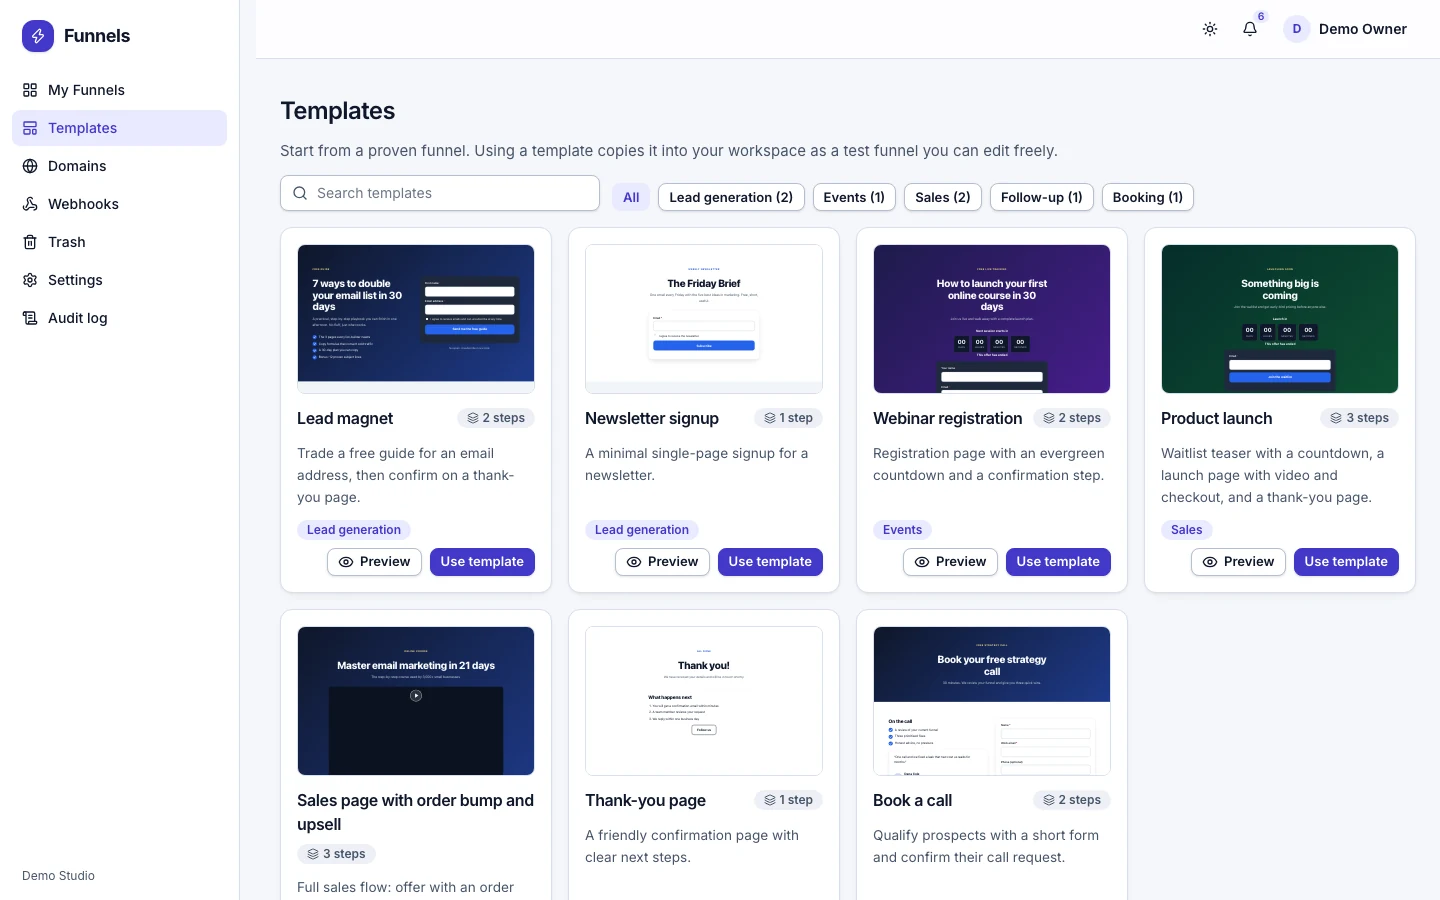
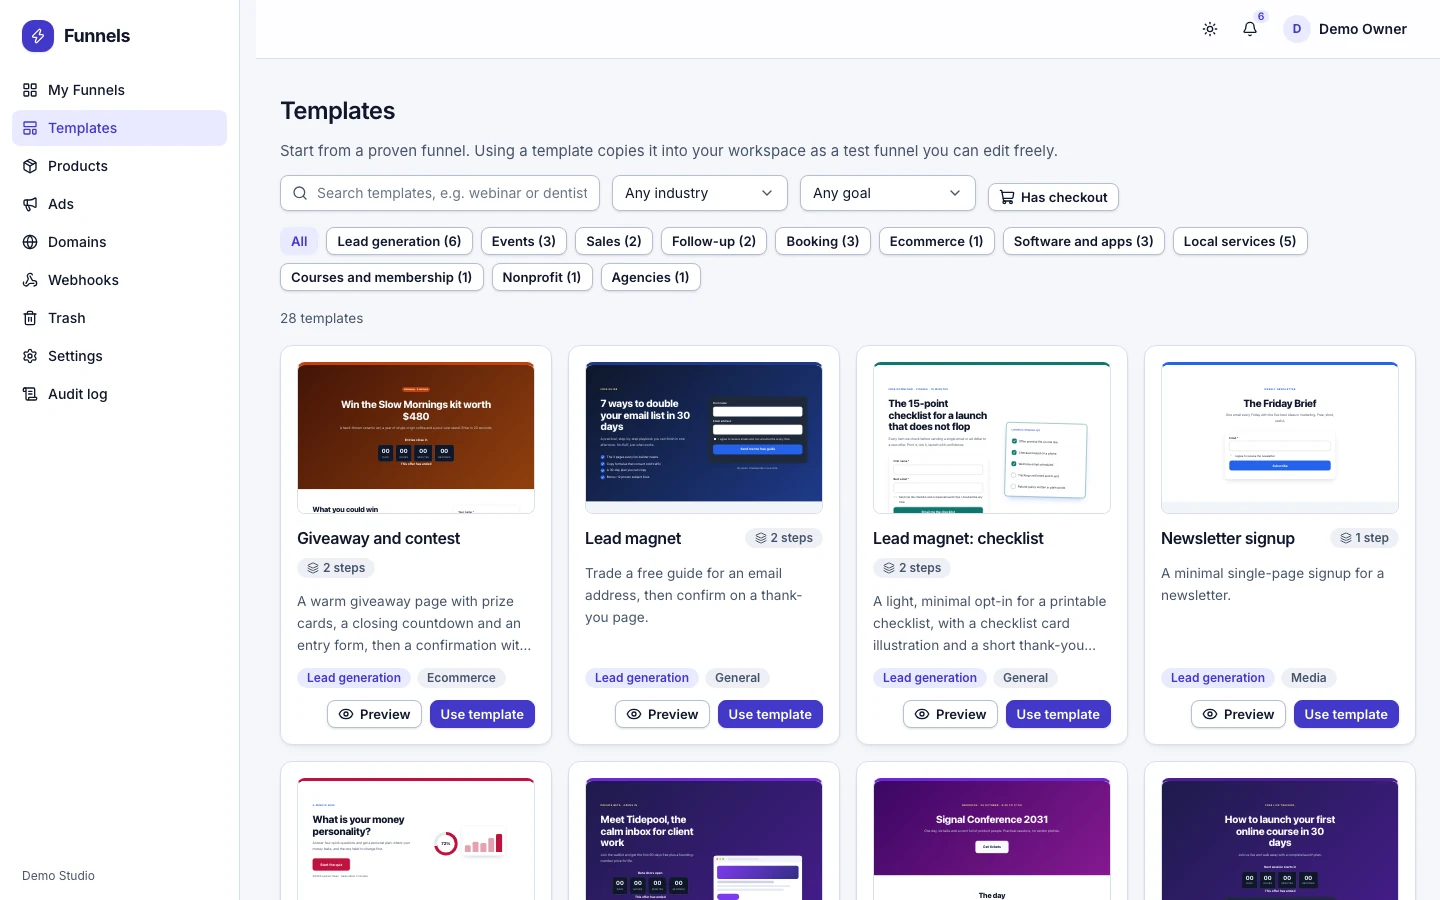
test(e2e): commerce suite (templates, products, add-payments wizard, product analytics) and a fake-Stripe suite for connect and a test-mode purchase; design screenshots

diff --git a/e2e/tests/commerce.spec.ts b/e2e/tests/commerce.spec.ts
@@ -1,0 +1,100 @@
+import { expect, test } from '@playwright/test';
+import { register } from './helpers.js';
+
+// Templates, product catalog, the add-payments wizard and product analytics, through the real UI (the mock payment provider, as in development).
+
+const api = (page: import('@playwright/test').Page, method: string, path: string, body?: unknown) =>
+  page.evaluate(async ([m, p, b]) => {
+    const h: Record<string, string> = { 'content-type': 'application/json', authorization: `Bearer ${localStorage.getItem('funnels.token')}` };
+    const r = await fetch(p as string, { method: m as string, headers: h, body: b === undefined ? undefined : JSON.stringify(b) });
+    return { status: r.status, json: await r.json().catch(() => null) };
+  }, [method, path, body] as const);
+
+test('templates: search and filter the library, preview on a device, use a checkout template and bind its products', async ({ page }) => {
+  await register(page);
+  await page.goto('/templates');
+  await expect(page.getByRole('status').filter({ hasText: /templates?$/ })).toContainText(/28 templates/);
+  await page.getByLabel('Search templates').fill('dentist');
+  await expect(page.getByRole('article')).toHaveCount(1);
+  await page.getByRole('button', { name: /^Preview/ }).click();
+  const dlg = page.getByRole('dialog');
+  await expect(dlg.locator('iframe')).toBeVisible();
+  await dlg.getByRole('button', { name: 'mobile' }).click();
+  await expect(dlg.locator('iframe')).toHaveCSS('width', '390px');
+  await dlg.getByRole('button', { name: 'Close' }).first().click();
+  await page.getByLabel('Search templates').fill('');
+  await page.getByRole('button', { name: 'Has checkout' }).click();
+  await expect(page.getByRole('article').first()).toBeVisible();
+  await page.getByLabel('Search templates').fill('bump');
+  await page.getByRole('button', { name: 'Use template Sales page with order bump and upsell' }).click();
+  const wiz = page.getByRole('dialog', { name: /Use "Sales page/ });
+  await expect(wiz.getByText('Products this funnel sells')).toBeVisible();
+  await wiz.getByLabel('Funnel name').fill('Masterclass funnel');
+  await wiz.getByRole('button', { name: 'Create funnel' }).click();
+  await expect(page.getByRole('heading', { name: 'Masterclass funnel', level: 1 })).toBeVisible();
+  await page.goto('/products');
+  await expect(page.getByRole('table', { name: 'Product catalog' }).getByRole('row')).toHaveCount(4); // header + three products created from the template slots
+});
+
+test('products: create, change the price (immutable: replaced), archive and restore', async ({ page }) => {
+  await register(page);
+  await page.goto('/products');
+  await page.getByRole('button', { name: 'New product' }).first().click();
+  const drawer = page.getByRole('dialog', { name: 'New product' });
+  await drawer.getByLabel('Name', { exact: true }).fill('Starter kit');
+  await drawer.getByLabel('Price').fill('49.50');
+  await drawer.getByRole('button', { name: 'Create product' }).click();
+  const table = page.getByRole('table', { name: 'Product catalog' });
+  await expect(table.getByRole('row', { name: /Starter kit/ })).toContainText('$49.50');
+  await expect(table.getByRole('row', { name: /Starter kit/ })).toContainText('Not connected');
+  await table.getByRole('button', { name: 'Open Starter kit' }).click();
+  const edit = page.getByRole('dialog', { name: 'Starter kit' });
+  await edit.getByRole('button', { name: /^Change the price/ }).click();
+  await edit.getByLabel('Price').last().fill('59');
+  await edit.getByRole('button', { name: 'Save new price' }).click();
+  await expect(edit.getByText('Replaced')).toBeVisible();
+  await expect(edit.getByText('$59.00', { exact: false }).first()).toBeVisible();
+  await edit.getByRole('button', { name: 'Archive product' }).click();
+  await page.getByRole('dialog', { name: 'Archive this product?' }).getByRole('button', { name: 'Archive' }).click();
+  await expect(edit.getByText(/This product is archived/)).toBeVisible();
+  await edit.getByRole('button', { name: 'Restore' }).click();
+  await expect(edit.getByRole('button', { name: 'Archive product' })).toBeVisible();
+});
+
+test('payments wizard builds the checkout steps; a purchase shows up in product analytics and can be summarised', async ({ page }) => {
+  await register(page);
+  const f = (await api(page, 'POST', '/api/funnels', { name: 'Shop funnel' })).json as { id: string };
+  await page.goto(`/funnels/${f.id}/steps`);
+  await page.getByRole('button', { name: 'Add payments' }).click();
+  const wiz = page.getByRole('dialog', { name: 'Add payments to this funnel' });
+  await wiz.getByLabel('Name').fill('Poster');
+  await wiz.getByLabel('Price', { exact: true }).fill('25');
+  await wiz.getByRole('button', { name: 'Next' }).click();
+  await wiz.getByRole('button', { name: 'Next' }).click(); // layout: one step
+  await wiz.getByLabel(/Offer an order bump/).check();
+  await wiz.getByLabel('Name').fill('Frame');
+  await wiz.getByLabel('Price', { exact: true }).fill('9');
+  await wiz.getByRole('button', { name: 'Next' }).click();
+  await wiz.getByRole('button', { name: 'Next' }).click(); // no upsell
+  await wiz.getByRole('button', { name: 'Add payments' }).click();
+  const steps = page.getByRole('list', { name: 'Funnel steps' });
+  await expect(steps.getByRole('listitem')).toHaveCount(3); // landing, checkout, thank you
+  await expect(steps).toContainText('Checkout');
+
+  const stepsApi = (await api(page, 'GET', `/api/funnels/${f.id}/steps`)).json as { data: { id: string; name: string }[] };
+  const co = stepsApi.data.find((s) => s.name === 'Checkout')!;
+  const doc = ((await api(page, 'GET', `/api/funnels/${f.id}/steps/${co.id}/page`)).json as { doc: { products: { id: string; orderBump?: boolean }[] } }).doc;
+  const main = doc.products.find((p) => !p.orderBump)!;
+  const buy = await page.evaluate(async ([fid, sid, bid]) => (await fetch(`/api/public/checkout/${fid}/${sid}/${bid}`, { method: 'POST', headers: { 'content-type': 'application/json' }, body: JSON.stringify({ email: 'e2e-buyer@example.com' }) })).status, [f.id, co.id, main.id] as const);
+  expect(buy).toBe(200);
+
+  await page.goto(`/funnels/${f.id}/products`);
+  await expect(page.getByRole('table', { name: /Performance per product/ })).toContainText('Poster');
+  await expect(page.getByRole('table', { name: /Performance per product/ }).getByRole('img', { name: /Net revenue of Poster/ })).toBeVisible();
+  await page.getByRole('button', { name: 'Open details of Poster in USD' }).click();
+  await expect(page.getByRole('dialog', { name: /Poster/ })).toContainText('Net revenue');
+  await page.getByRole('dialog', { name: /Poster/ }).getByRole('button', { name: 'Close dialog' }).click();
+  await page.getByRole('button', { name: 'Summarise this period' }).first().click();
+  await expect(page.getByTestId('summary-narrative')).toContainText('1 order');
+  await expect(page.getByText('Priority 1')).toBeVisible();
+});

diff --git a/e2e/tests-stripe/stripe.spec.ts b/e2e/tests-stripe/stripe.spec.ts
@@ -1,0 +1,59 @@
+import { expect, test } from '@playwright/test';
+import { addVerifiedDomain, register } from '../tests/helpers.js';
+
+const PORT = Number(process.env.E2E_STRIPE_PORT ?? 4280);
+
+const api = (page: import('@playwright/test').Page, method: string, path: string, body?: unknown) =>
+  page.evaluate(async ([m, p, b]) => {
+    const h: Record<string, string> = { 'content-type': 'application/json', authorization: `Bearer ${localStorage.getItem('funnels.token')}` };
+    const r = await fetch(p as string, { method: m as string, headers: h, body: b === undefined ? undefined : JSON.stringify(b) });
+    return { status: r.status, json: await r.json().catch(() => null) };
+  }, [method, path, body] as const);
+
+test('connect Stripe from Settings, build a checkout with the wizard, and buy with a test card on the hosted page (fake Stripe)', async ({ page }) => {
+  await register(page);
+
+  // Settings > Payments: test mode banner, not connected, then the onboarding round trip
+  await page.goto('/settings');
+  const pay = page.getByRole('region', { name: 'Payments' });
+  await expect(pay).toContainText('Test mode');
+  await expect(pay).toContainText('Not connected');
+  await expect(pay.getByRole('table', { name: 'Stripe test cards' })).toContainText('4242 4242 4242 4242');
+  await pay.getByRole('button', { name: 'Connect Stripe' }).click();
+  await page.getByRole('button', { name: 'Finish onboarding' }).click(); // the fake's hosted onboarding page
+  await expect(page).toHaveURL(/\/settings\?connect=return/);
+  await expect(pay).toContainText('Connected');
+  await expect(pay).toContainText('E2E STORE');
+  await expect(pay).toContainText('card');
+
+  // a funnel with the wizard (API) on a verified domain, live
+  const f = (await api(page, 'POST', '/api/funnels', { name: 'Poster shop', base_path: '/poster' })).json as { id: string };
+  const built = await api(page, 'POST', `/api/funnels/${f.id}/payments`, { product: { create: { name: 'Poster', amount: 25, currency: 'USD' } } });
+  expect(built.status).toBe(201);
+  await addVerifiedDomain(page, 'shop.e2e.test');
+  const domain = ((await api(page, 'GET', '/api/domains')).json as { data: { id: string }[] }).data[0]!;
+  expect((await api(page, 'PATCH', `/api/funnels/${f.id}`, { status: 'live', domain_id: domain.id })).status).toBe(200);
+
+  // the product was pushed to the (fake) Stripe account
+  await page.goto('/products');
+  await expect(page.getByRole('table', { name: 'Product catalog' }).getByRole('row', { name: /Poster/ })).toContainText('Synced to Stripe');
+
+  const checkoutPath = (built.json as { added: { path: string }[] }).added[0]!.path;
+  // buyer: declined card first (back on the page, no order), then a successful one
+  await page.goto(`http://shop.e2e.test:${PORT}${checkoutPath}`);
+  await page.getByLabel('Email').first().fill('buyer@example.com');
+  await page.getByRole('button', { name: /^Buy now/ }).click();
+  await expect(page.getByRole('heading', { name: /Pay 25\.00 USD/ })).toBeVisible();
+  await page.getByRole('button', { name: /declined/ }).click();
+  await expect(page).toHaveURL(/purchase=cancelled/);
+  await page.getByLabel('Email').first().fill('buyer@example.com');
+  await page.getByRole('button', { name: /^Buy now/ }).click();
+  await page.getByRole('button', { name: 'Pay with 4242 4242 4242 4242' }).click();
+  await expect(page.getByRole('heading', { name: /Thank you for your order/ })).toBeVisible(); // the return URL finished the order and sent the buyer to the thank-you step
+
+  await page.goto(`/funnels/${f.id}/orders`);
+  const rows = page.getByRole('row', { name: /buyer@example\.com/ });
+  await expect(rows).toHaveCount(1);
+  await expect(rows.first()).toContainText('Poster');
+  await expect(rows.first()).toContainText('$25.00');
+});

diff --git a/e2e/playwright.stripe.config.ts b/e2e/playwright.stripe.config.ts
@@ -1,0 +1,32 @@
+import { fileURLToPath } from 'node:url';
+import { defineConfig, devices } from '@playwright/test';
+
+// The Stripe suite: the same built server, but PAYMENTS_PROVIDER=stripe against the in-process fake Stripe (fakestripe.mjs): the connect flow and a test-mode
+// purchase through the hosted checkout page. Run with `npm run test:stripe`. Not real Stripe: see docs/STRIPE.md for what is unverified.
+const PORT = Number(process.env.E2E_STRIPE_PORT ?? 4280);
+const FAKE = PORT + 2;
+const BASE = `http://127.0.0.1:${PORT}`;
+
+export default defineConfig({
+  testDir: './tests-stripe',
+  timeout: 60_000,
+  expect: { timeout: 10_000 },
+  workers: 1,
+  retries: 0,
+  reporter: [['list']],
+  outputDir: './test-results-stripe',
+  use: { baseURL: BASE, trace: 'retain-on-failure', screenshot: 'only-on-failure', viewport: { width: 1360, height: 900 } },
+  projects: [{ name: 'chromium', use: { ...devices['Desktop Chrome'], viewport: { width: 1360, height: 900 }, launchOptions: { args: ['--host-resolver-rules=MAP *.e2e.test 127.0.0.1'] } } }],
+  webServer: {
+    command: 'node server.mjs',
+    url: `${BASE}/readyz`,
+    reuseExistingServer: false,
+    timeout: 30_000,
+    env: {
+      NODE_ENV: 'production', PORT: String(PORT), DATABASE_PATH: ':memory:', JWT_SECRET: 'e2e-secret-e2e-secret-e2e-secret-123456', DATA_ENCRYPTION_KEY: 'e2e-data-key-e2e-data-key-e2e-data-key-1234',
+      WEB_DIST: fileURLToPath(new URL('../web/dist', import.meta.url)), APP_PUBLIC_URL: BASE, APP_PUBLIC_CNAME_TARGET: 'sites.e2e.test', LOG_LEVEL: 'error', TRUST_PROXY: 'true',
+      IP_GUARD_PER_MINUTE: '1000000', PUBLIC_FORMS_PER_MINUTE: '100000', AUTH_ATTEMPTS_PER_MINUTE: '100000', API_USER_PER_MINUTE: '1000000', API_WORKSPACE_PER_MINUTE: '1000000', EVENT_BUFFER_MS: '0', MAIL_PORT: String(PORT + 1),
+      PAYMENTS_PROVIDER: 'stripe', STRIPE_SECRET_KEY: 'sk_test_e2efake1234', STRIPE_WEBHOOK_SECRET: 'whsec_e2e_platform', STRIPE_CONNECT_WEBHOOK_SECRET: 'whsec_e2e_connect', STRIPE_API_BASE: `http://127.0.0.1:${FAKE}`, E2E_FAKE_STRIPE_PORT: String(FAKE),
+    },
+  },
+});

diff --git a/web/src/components/TemplateGallery.tsx b/web/src/components/TemplateGallery.tsx
@@ -123,7 +123,7 @@ export function TemplateGallery({ onCreated }: { onCreated?: (f: FunnelDetail) =
         {q.data?.data.map((t) => (
           <article key={t.id} className="card flex flex-col gap-3 transition-shadow hover:shadow-pop" aria-label={t.name}>
             <TemplateThumb t={t} />
-            <div className="row between"><h3>{t.name}</h3><Badge><Layers className="size-3" aria-hidden="true" />{t.stepCount} step{t.stepCount === 1 ? '' : 's'}</Badge></div>
+            <div className="flex items-start justify-between gap-2"><h3 className="min-w-0 !m-0">{t.name}</h3><Badge className="shrink-0"><Layers className="size-3" aria-hidden="true" />{t.stepCount} step{t.stepCount === 1 ? '' : 's'}</Badge></div>
             <p className="small muted !mb-0 line-clamp-3 grow">{t.description}</p>
             <div className="flex flex-wrap gap-1.5">
               <Badge tone="primary">{t.categoryName ?? 'Uncategorised'}</Badge>

diff --git a/e2e/tests/billing.spec.ts b/e2e/tests/billing.spec.ts
@@ -8,7 +8,7 @@ test('Settings shows plan, usage and payment status; an order from a sales funne
   const billing = page.getByRole('region', { name: 'Billing' });
   await expect(billing).toContainText('Plan: Free');
   await expect(billing.getByRole('row', { name: /Funnels\s+0\s+3/ })).toBeVisible();
-  await expect(billing).toContainText('test mode');
+  await expect(page.getByRole('region', { name: 'Payments' })).toContainText('test mode');
 
   // A sales funnel from a template, and a purchase through the public checkout endpoint (the mock payment provider, as in development).
   const made = await page.evaluate(async () => {

diff --git a/docs/README.md b/docs/README.md
@@ -130,6 +130,7 @@ Generated by `npm run design:shots` in `e2e/` from the seeded demo workspace; th
 | Funnel detail (steps) | [1440 dark](design/funnel-steps-1440-dark.webp), [1440 light](design/funnel-steps-1440-light.webp), [1024 dark](design/funnel-steps-1024-dark.webp), [1024 light](design/funnel-steps-1024-light.webp), [390 dark](design/funnel-steps-390-dark.webp), [390 light](design/funnel-steps-390-light.webp) |
 | Templates | [1440 dark](design/templates-1440-dark.webp), [1440 light](design/templates-1440-light.webp), [1024 dark](design/templates-1024-dark.webp), [1024 light](design/templates-1024-light.webp), [390 dark](design/templates-390-dark.webp), [390 light](design/templates-390-light.webp) |
 | Analytics | [1440 dark](design/analytics-1440-dark.webp), [1440 light](design/analytics-1440-light.webp), [1024 dark](design/analytics-1024-dark.webp), [1024 light](design/analytics-1024-light.webp), [390 dark](design/analytics-390-dark.webp), [390 light](design/analytics-390-light.webp) |
+| Products | [1440 light](design/products-1440-light.webp), [1440 dark](design/products-1440-dark.webp), [performance 1440 dark](design/products-performance-1440-dark.webp), [performance 1024 light](design/products-performance-1024-light.webp), [performance 390 light](design/products-performance-390-light.webp) |
 | Domains | [1440 dark](design/domains-1440-dark.webp), [1440 light](design/domains-1440-light.webp), [1024 dark](design/domains-1024-dark.webp), [1024 light](design/domains-1024-light.webp), [390 dark](design/domains-390-dark.webp), [390 light](design/domains-390-light.webp) |
 | Settings | [1440 dark](design/settings-1440-dark.webp), [1440 light](design/settings-1440-light.webp), [1024 dark](design/settings-1024-dark.webp), [1024 light](design/settings-1024-light.webp), [390 dark](design/settings-390-dark.webp), [390 light](design/settings-390-light.webp) |
 | Sign in | [1440 dark](design/login-1440-dark.webp), [1440 light](design/login-1440-light.webp) |

diff --git a/docs/design/DESIGN.md b/docs/design/DESIGN.md
@@ -112,6 +112,9 @@ All are WebP; names are `<screen>-<width>-<theme>`.
 | Funnel detail (steps) | [light](funnel-steps-1440-light.webp), [dark](funnel-steps-1440-dark.webp) | [light](funnel-steps-1024-light.webp), [dark](funnel-steps-1024-dark.webp) | [light](funnel-steps-390-light.webp), [dark](funnel-steps-390-dark.webp) |
 | Templates | [light](templates-1440-light.webp), [dark](templates-1440-dark.webp) | [light](templates-1024-light.webp), [dark](templates-1024-dark.webp) | [light](templates-390-light.webp), [dark](templates-390-dark.webp) |
 | Analytics | [light](analytics-1440-light.webp), [dark](analytics-1440-dark.webp) | [light](analytics-1024-light.webp), [dark](analytics-1024-dark.webp) | [light](analytics-390-light.webp), [dark](analytics-390-dark.webp) |
+| Products (catalog) | [light](products-1440-light.webp), [dark](products-1440-dark.webp) | | |
+| Products (performance) | [dark](products-performance-1440-dark.webp) | [light](products-performance-1024-light.webp) | [light](products-performance-390-light.webp) |
+| Templates (library gallery) | [light](templates-1440-light.webp) | | |
 | Domains | [light](domains-1440-light.webp), [dark](domains-1440-dark.webp) | [light](domains-1024-light.webp), [dark](domains-1024-dark.webp) | [light](domains-390-light.webp), [dark](domains-390-dark.webp) |
 | Settings | [light](settings-1440-light.webp), [dark](settings-1440-dark.webp) | [light](settings-1024-light.webp), [dark](settings-1024-dark.webp) | [light](settings-390-light.webp), [dark](settings-390-dark.webp) |
 | Sign in | [light](login-1440-light.webp), [dark](login-1440-dark.webp) | | |
